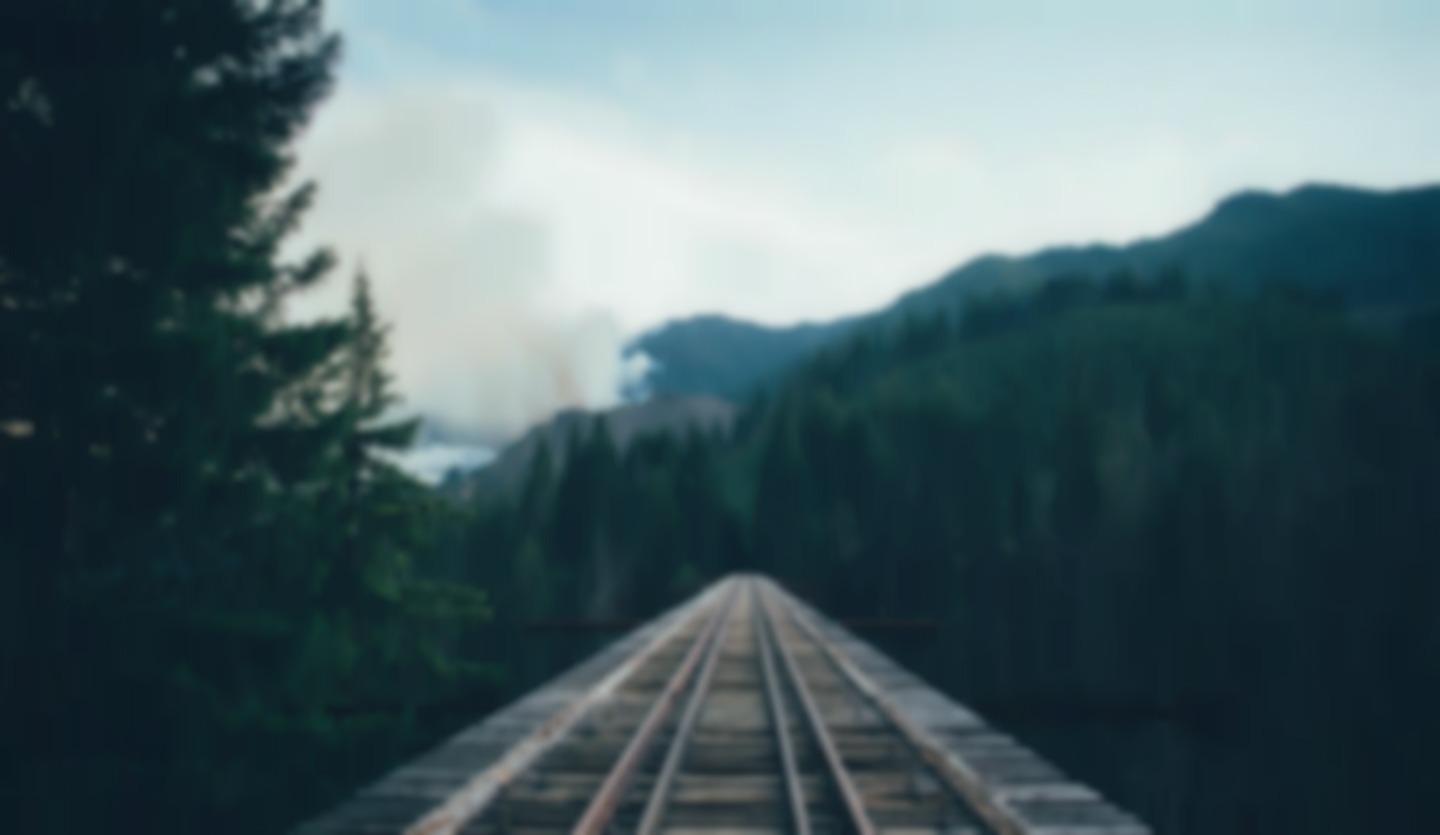
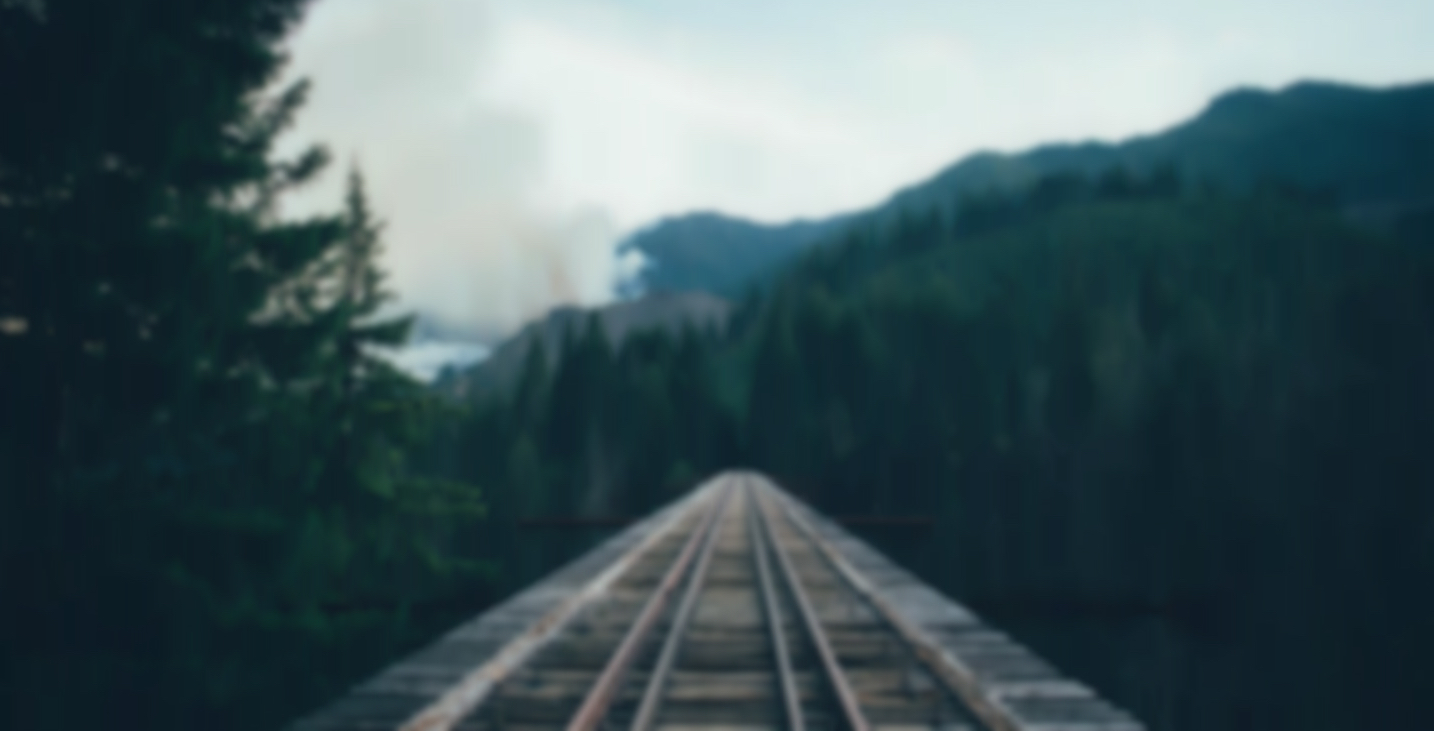
header

diff --git a/index.html b/index.html
@@ -12,7 +12,7 @@
 
 <body>
 
-  <div class="" id="navbar">
+  <div id="navbar">
     <nav class="white" role="navigation">
       <div class="nav-wrapper container">
         <a id="logo-container" href="#" class="brand-logo">Nikita Dagar</a>
@@ -36,15 +36,12 @@
   
   <div id="index-banner" class="parallax-container">
     <div class="section no-pad-bot">
-      <div class="container">
+      <div class="container margin-top-sm">
         <br><br>
-        <!-- <h1 class="header center teal-text text-lighten-2">Parallax Template</h1>
+        <h1 class="header center teal-text text-lighten-2">Nikita Dagar</h1>
         <div class="row center">
-          <h5 class="header col s12 light">A modern responsive front-end framework based on Material Design</h5>
+          <h5 class="header col s12 light">I like to build beautiful interfaces</h5>
         </div>
-        <div class="row center">
-          <a href="http://materializecss.com/getting-started.html" id="download-button" class="btn-large waves-effect waves-light teal lighten-1">Get Started</a>
-        </div> -->
         <br><br>
       </div>
     </div>

diff --git a/css/style.css b/css/style.css
@@ -50,3 +50,7 @@ footer.page-footer {
 #index-banner {
   height: 620px;
 }
+
+.margin-top-sm {
+  margin-top: 13%;
+}
